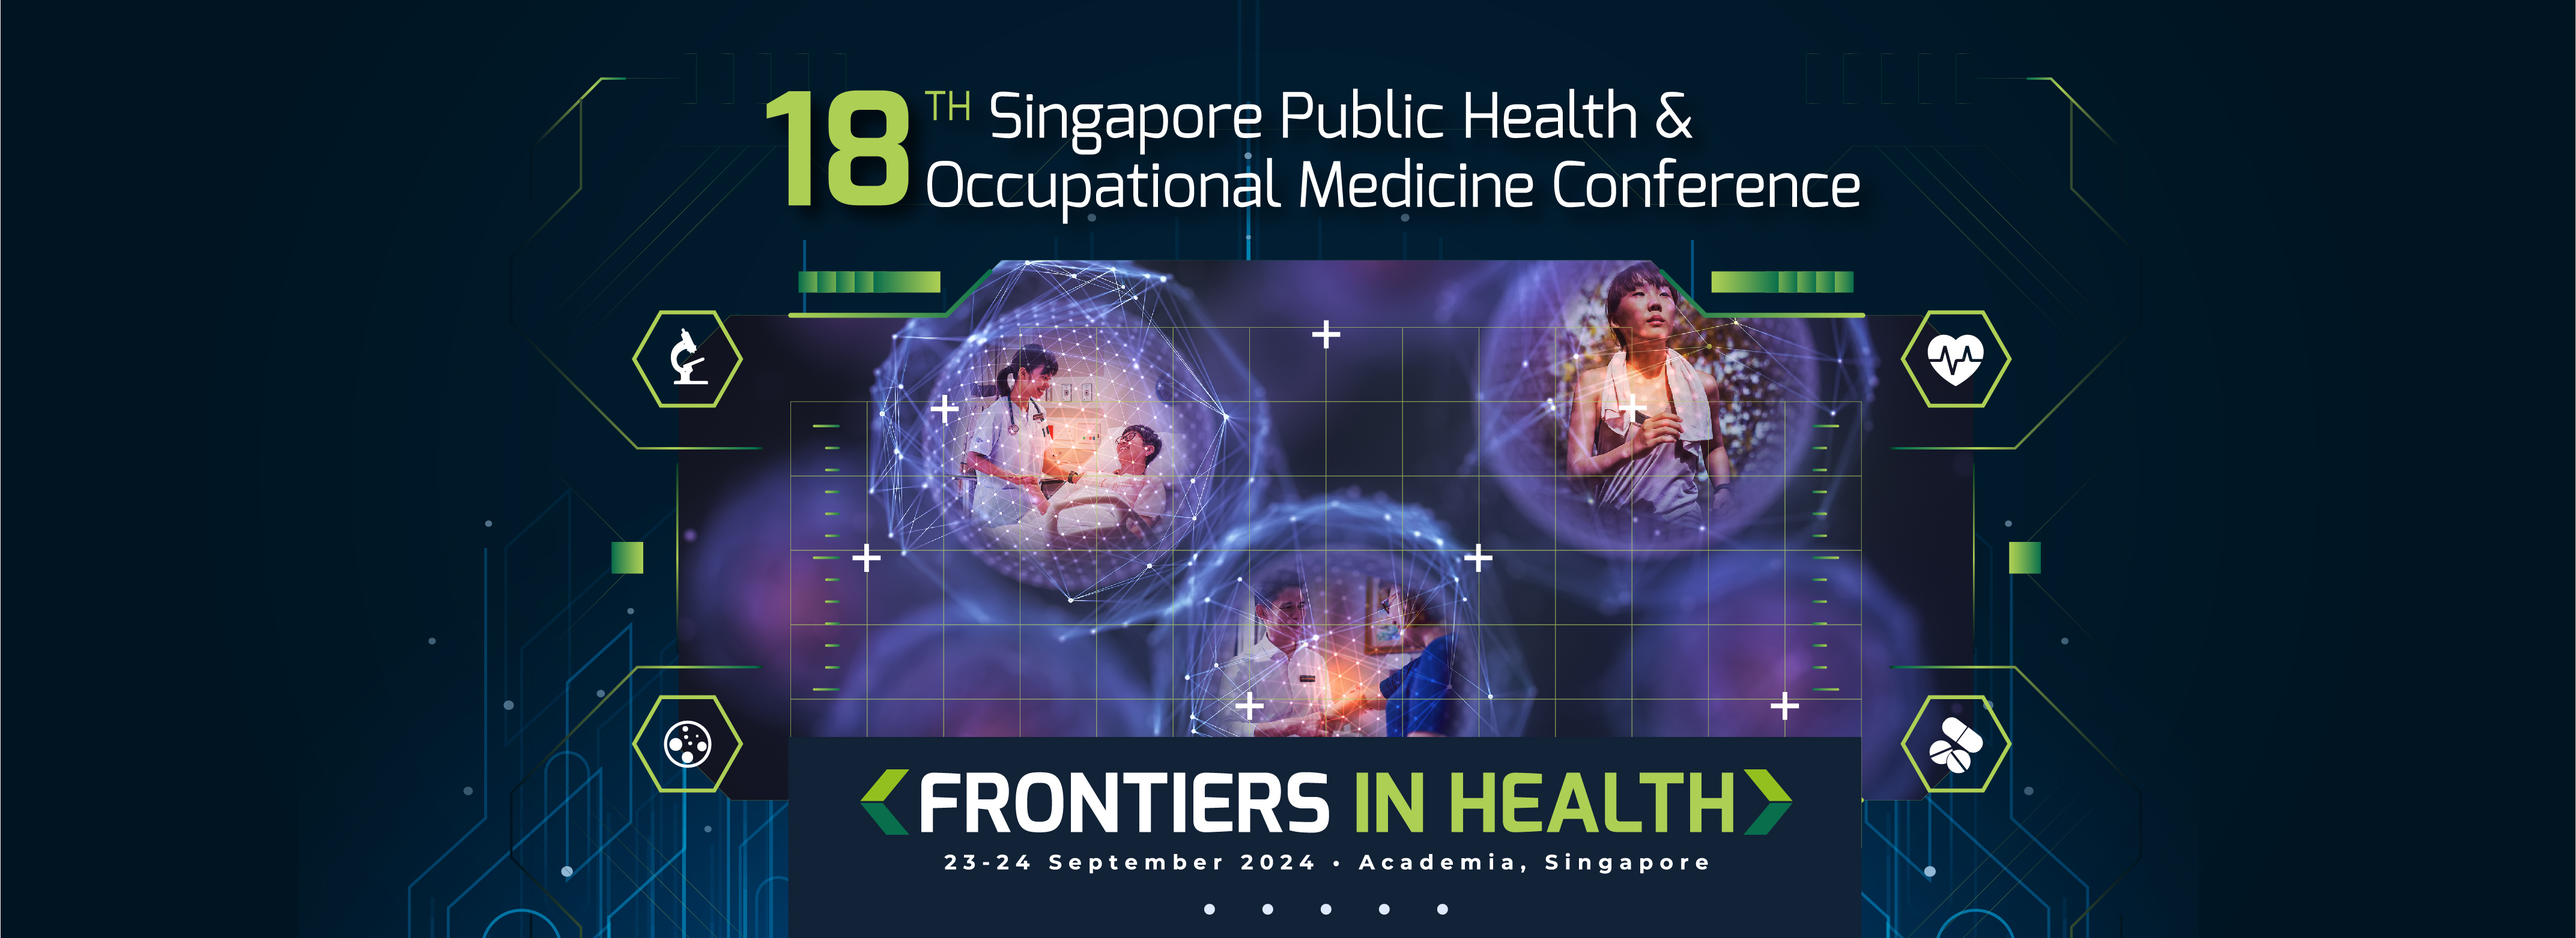
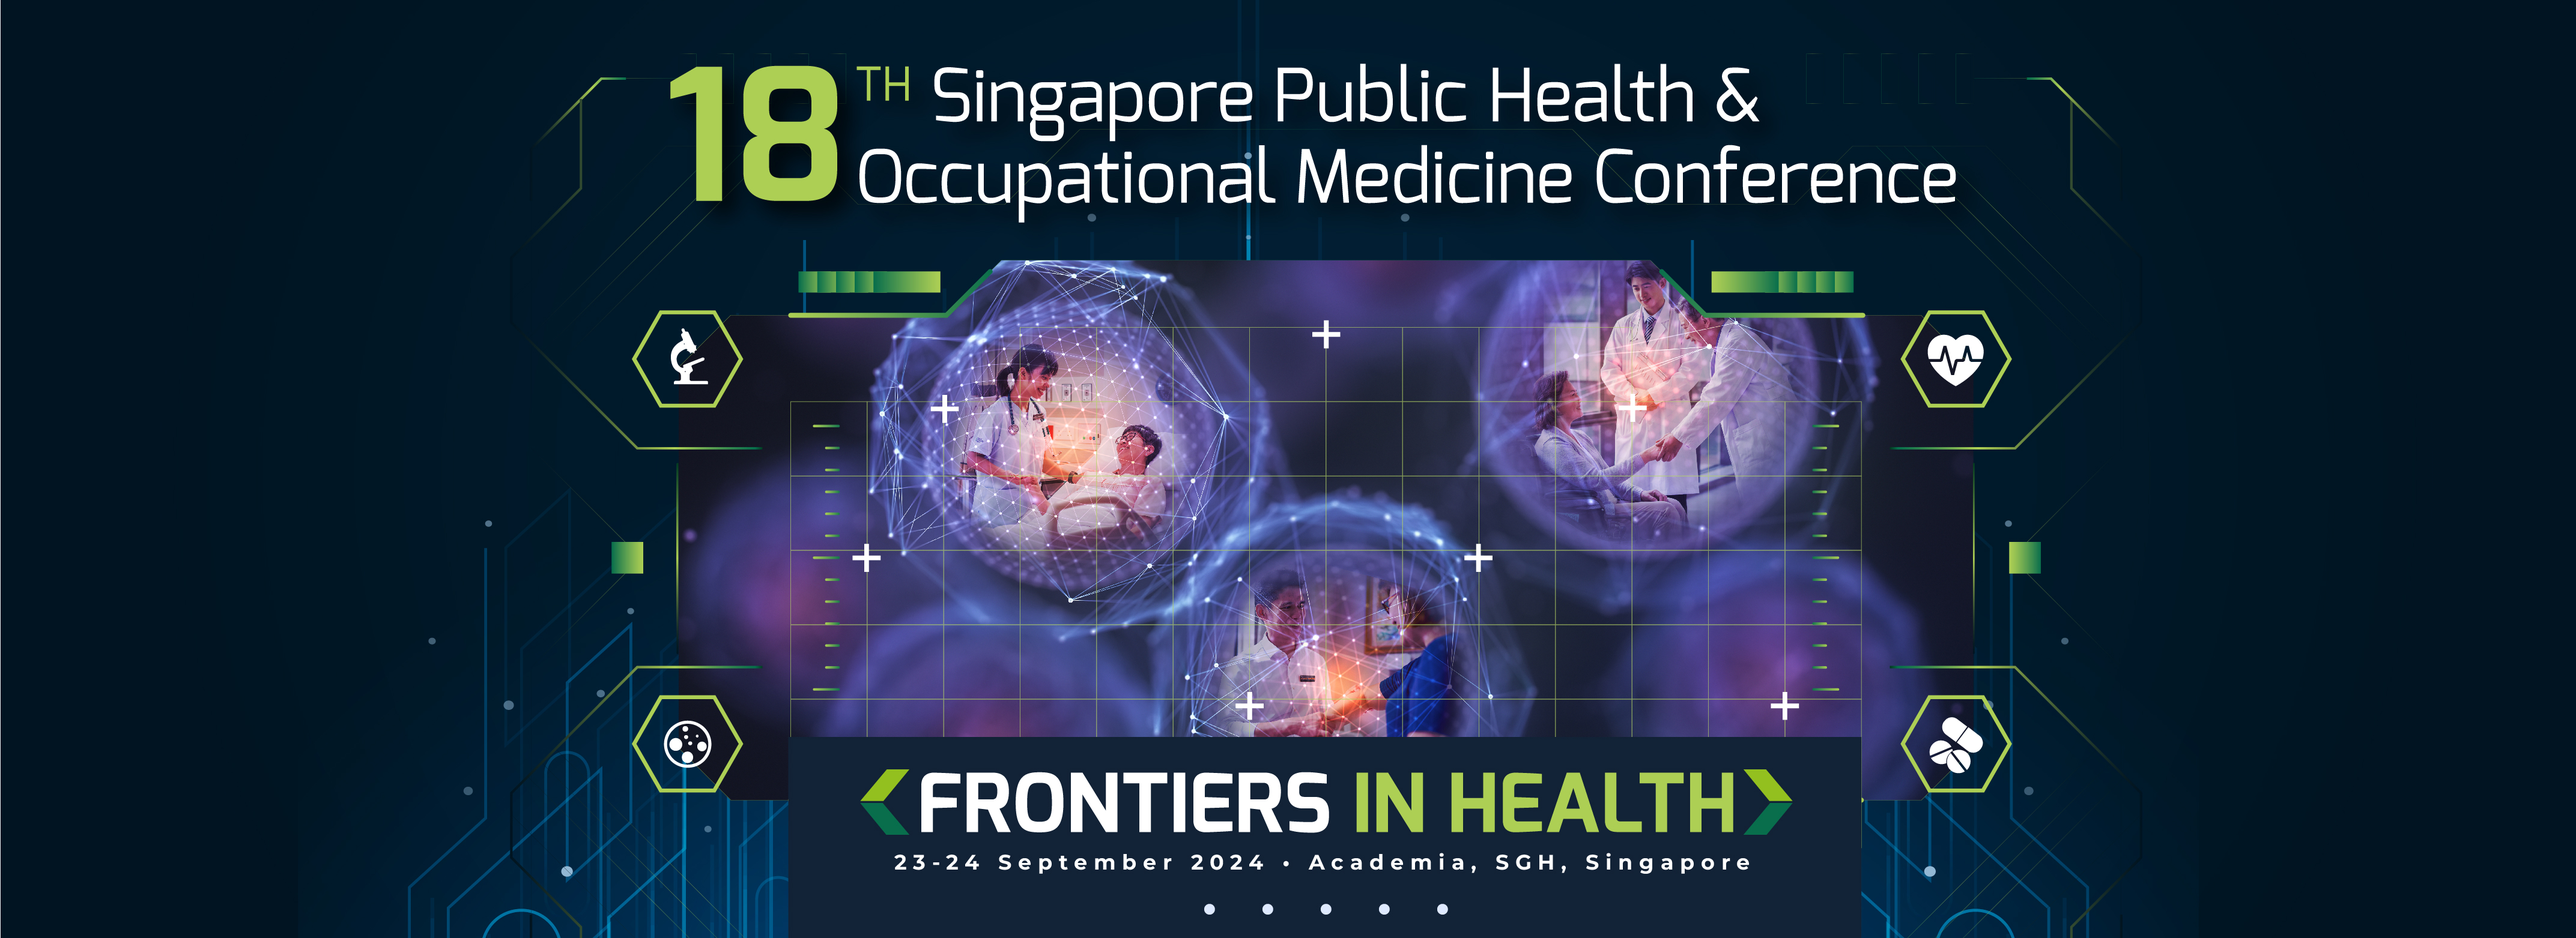
Add minor changes to website to update assests and name of website

diff --git a/app/registration/page.tsx b/app/registration/page.tsx
@@ -18,7 +18,7 @@ export default function Page () {
               For individual/group registration that require billing to the organisation, please download and submit the completed form to <strong className="text-primary">phom2024@ams.edu.sg</strong>. 
             </p>
             <p className="text-center">
-              <a className="btn btn-lg btn-primary" href="https://custom.cvent.com/FF5457269D734386A53152813B075285/files/ef486b1a49fa443f992f275c5501b025.xlsx">
+              <a className="btn btn-lg btn-primary" href="https://custom.cvent.com/FF5457269D734386A53152813B075285/files/408263b0ba8f46d0be99c59f245239b1.xlsx">
                 Download Registration Form
               </a>
             </p>

diff --git a/app/sponsorship/page.tsx b/app/sponsorship/page.tsx
@@ -16,7 +16,7 @@ export default function Page () {
               In exchange for your support, we can offer tiered advertising packages during the conference.
             </p>
             <p>
-              Download a copy of the Sponsorship Prospectus <a href="https://custom.cvent.com/FF5457269D734386A53152813B075285/files/c6fa4e93a5b649bf93ff41f84e43eb23.pdf">here</a>.
+              Download a copy of the Sponsorship Prospectus <a href="https://custom.cvent.com/FF5457269D734386A53152813B075285/files/5fc21215f92544179debaaebfcebd587.pdf">here</a>.
             </p>
             <p>
               Do reach out for more information if you are interested!

diff --git a/components/navbar.tsx b/components/navbar.tsx
@@ -11,7 +11,7 @@ export default function HomeNavbar () {
     <Navbar data-bs-theme="dark" expand="lg" style={{background: "#011422"}}>
       <Container>
         <Navbar.Brand as={Link} href="/">
-          PHOMC 2024
+          PHOM 2024
         </Navbar.Brand>
         <Navbar.Toggle aria-controls="basic-navbar-nav" />
         <Navbar.Collapse id="basic-navbar-nav">
